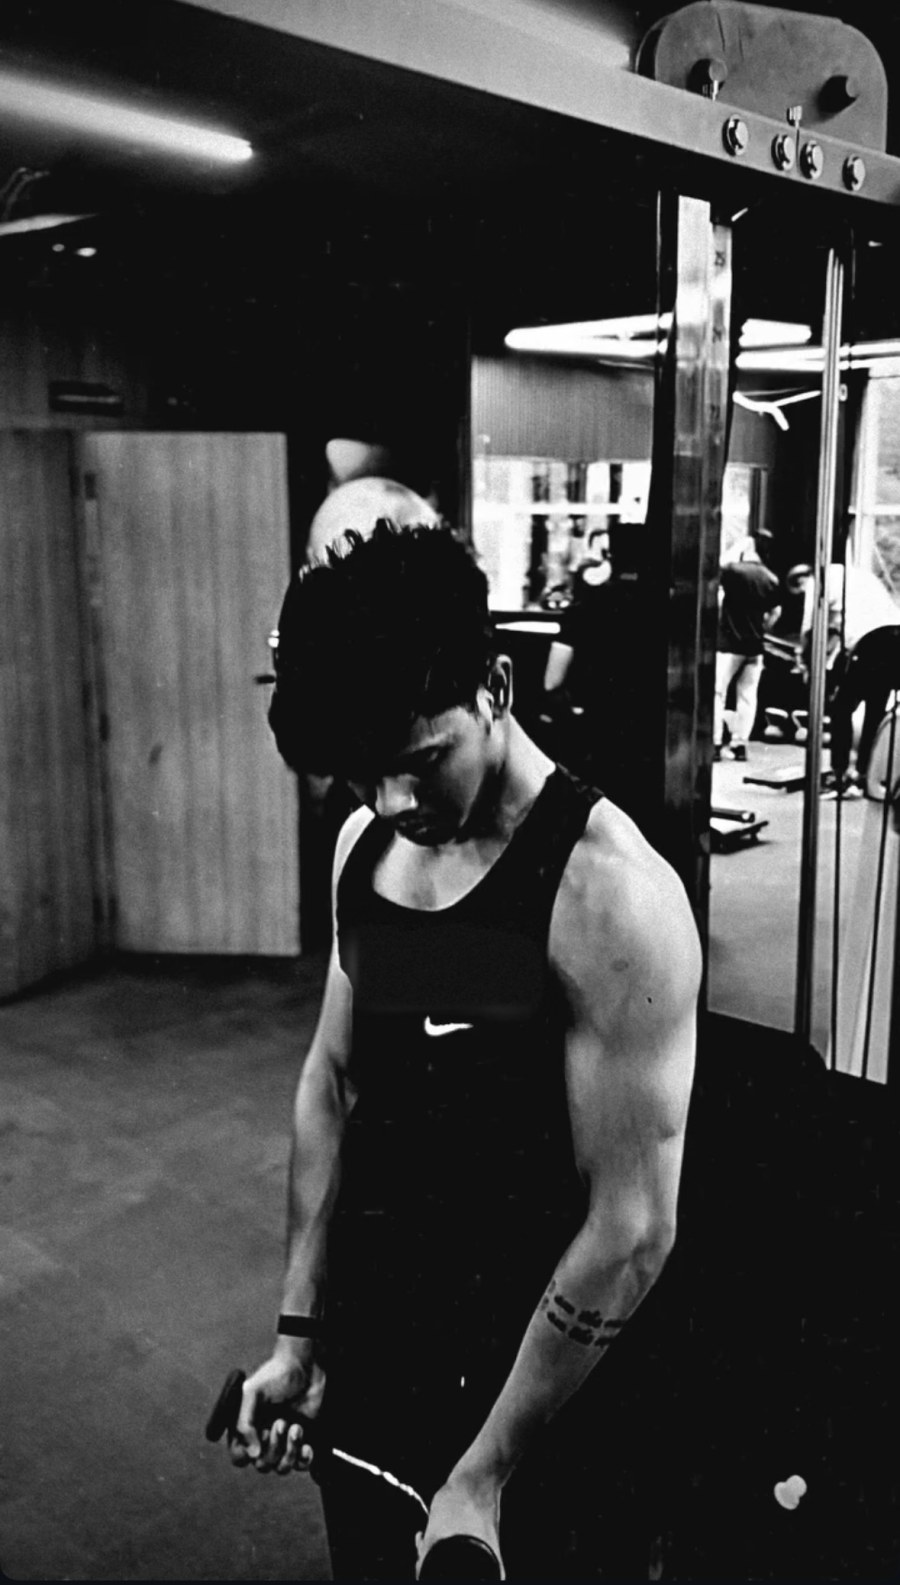
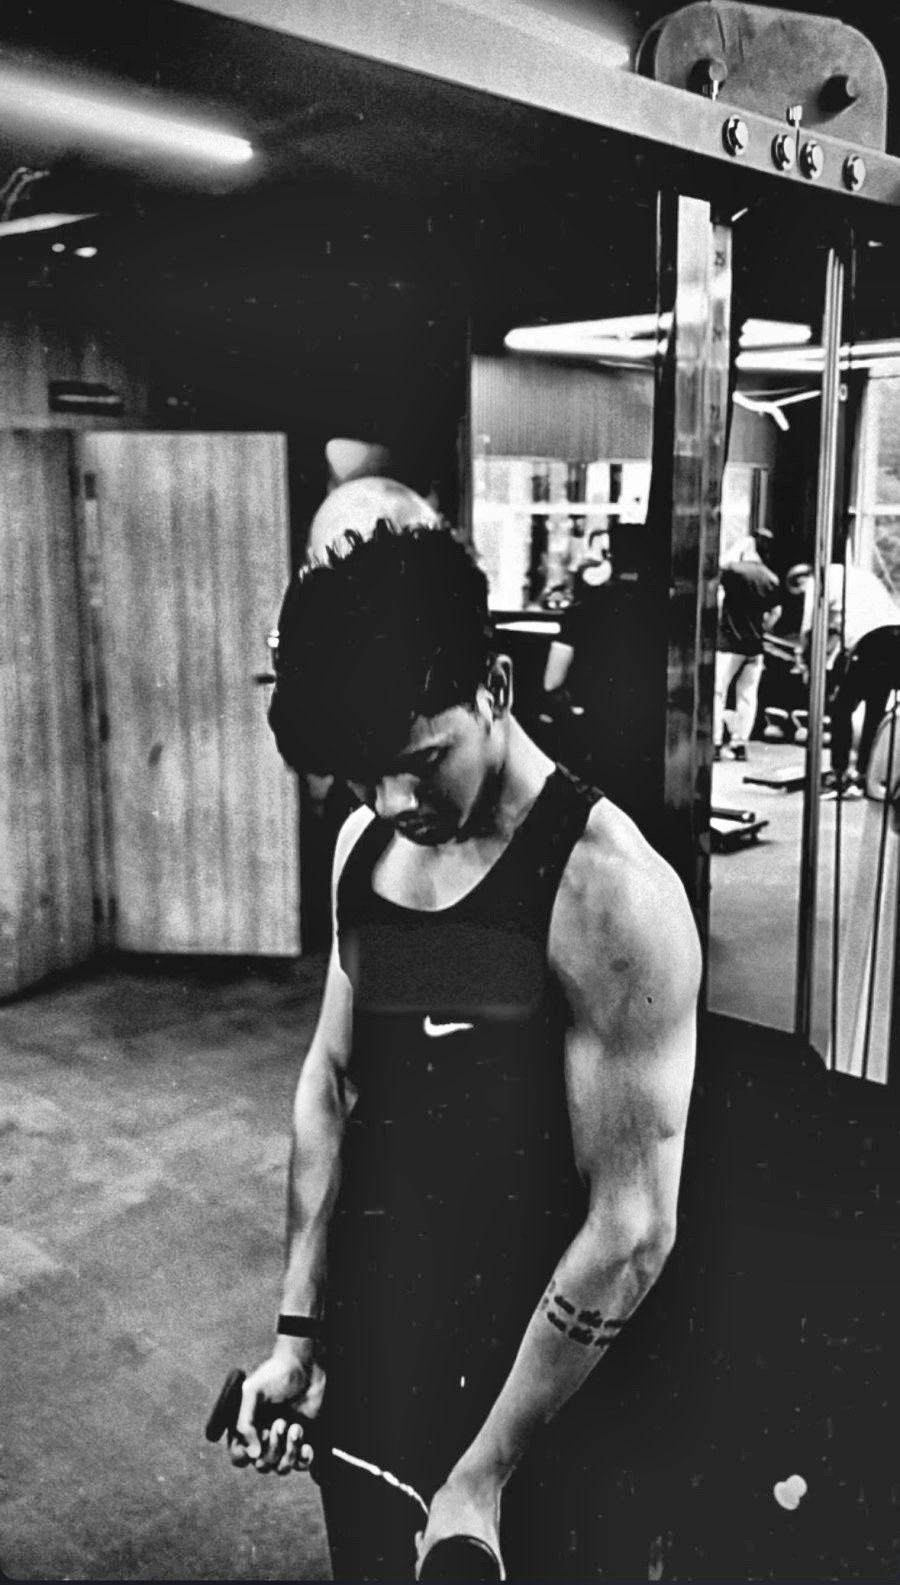
Brighten photos and tighten hero crop so they are clearly visible
Claude-Session: https://claude.ai/code/session_013LkPtrpcQFVa7on37ktJdv

diff --git a/index.html b/index.html
@@ -420,7 +420,7 @@ h1, h2, h3 { font-family: var(--font-display); font-weight: 700; letter-spacing:
                 <button class="btn" type="button" data-go="tools">Find my program</button>
               </div>
             </div>
-            <div class="slot portrait has-img" role="img" aria-label="Aman, certified fitness personal trainer" style="background-image:url('assets/aman.jpg');background-position:center 22%;cursor:default"></div>
+            <div class="slot portrait has-img" role="img" aria-label="Aman, certified fitness personal trainer" style="background-image:url('assets/aman.jpg?v=2');background-position:center 30%;cursor:default"></div>
           </div>
           <div class="proof">
             <div><b>Certified</b><span>Fitness personal trainer</span></div>
@@ -554,7 +554,7 @@ h1, h2, h3 { font-family: var(--font-display); font-weight: 700; letter-spacing:
       <section class="panel" data-id="about" data-title="About" aria-label="About Aman">
         <div class="pbody">
           <div class="about-grid">
-            <div class="slot photo has-img" role="img" aria-label="Aman training at the gym" style="background-image:url('assets/aman-about.jpg');background-position:center 42%;cursor:default"></div>
+            <div class="slot photo has-img" role="img" aria-label="Aman training at the gym" style="background-image:url('assets/aman-about.jpg?v=2');background-position:center 42%;cursor:default"></div>
             <div class="copy">
               <p class="eyebrow">About Aman</p>
               <div class="ph" style="gap:0"><h2>Certified, hands-on and focused on your progress.</h2></div>
